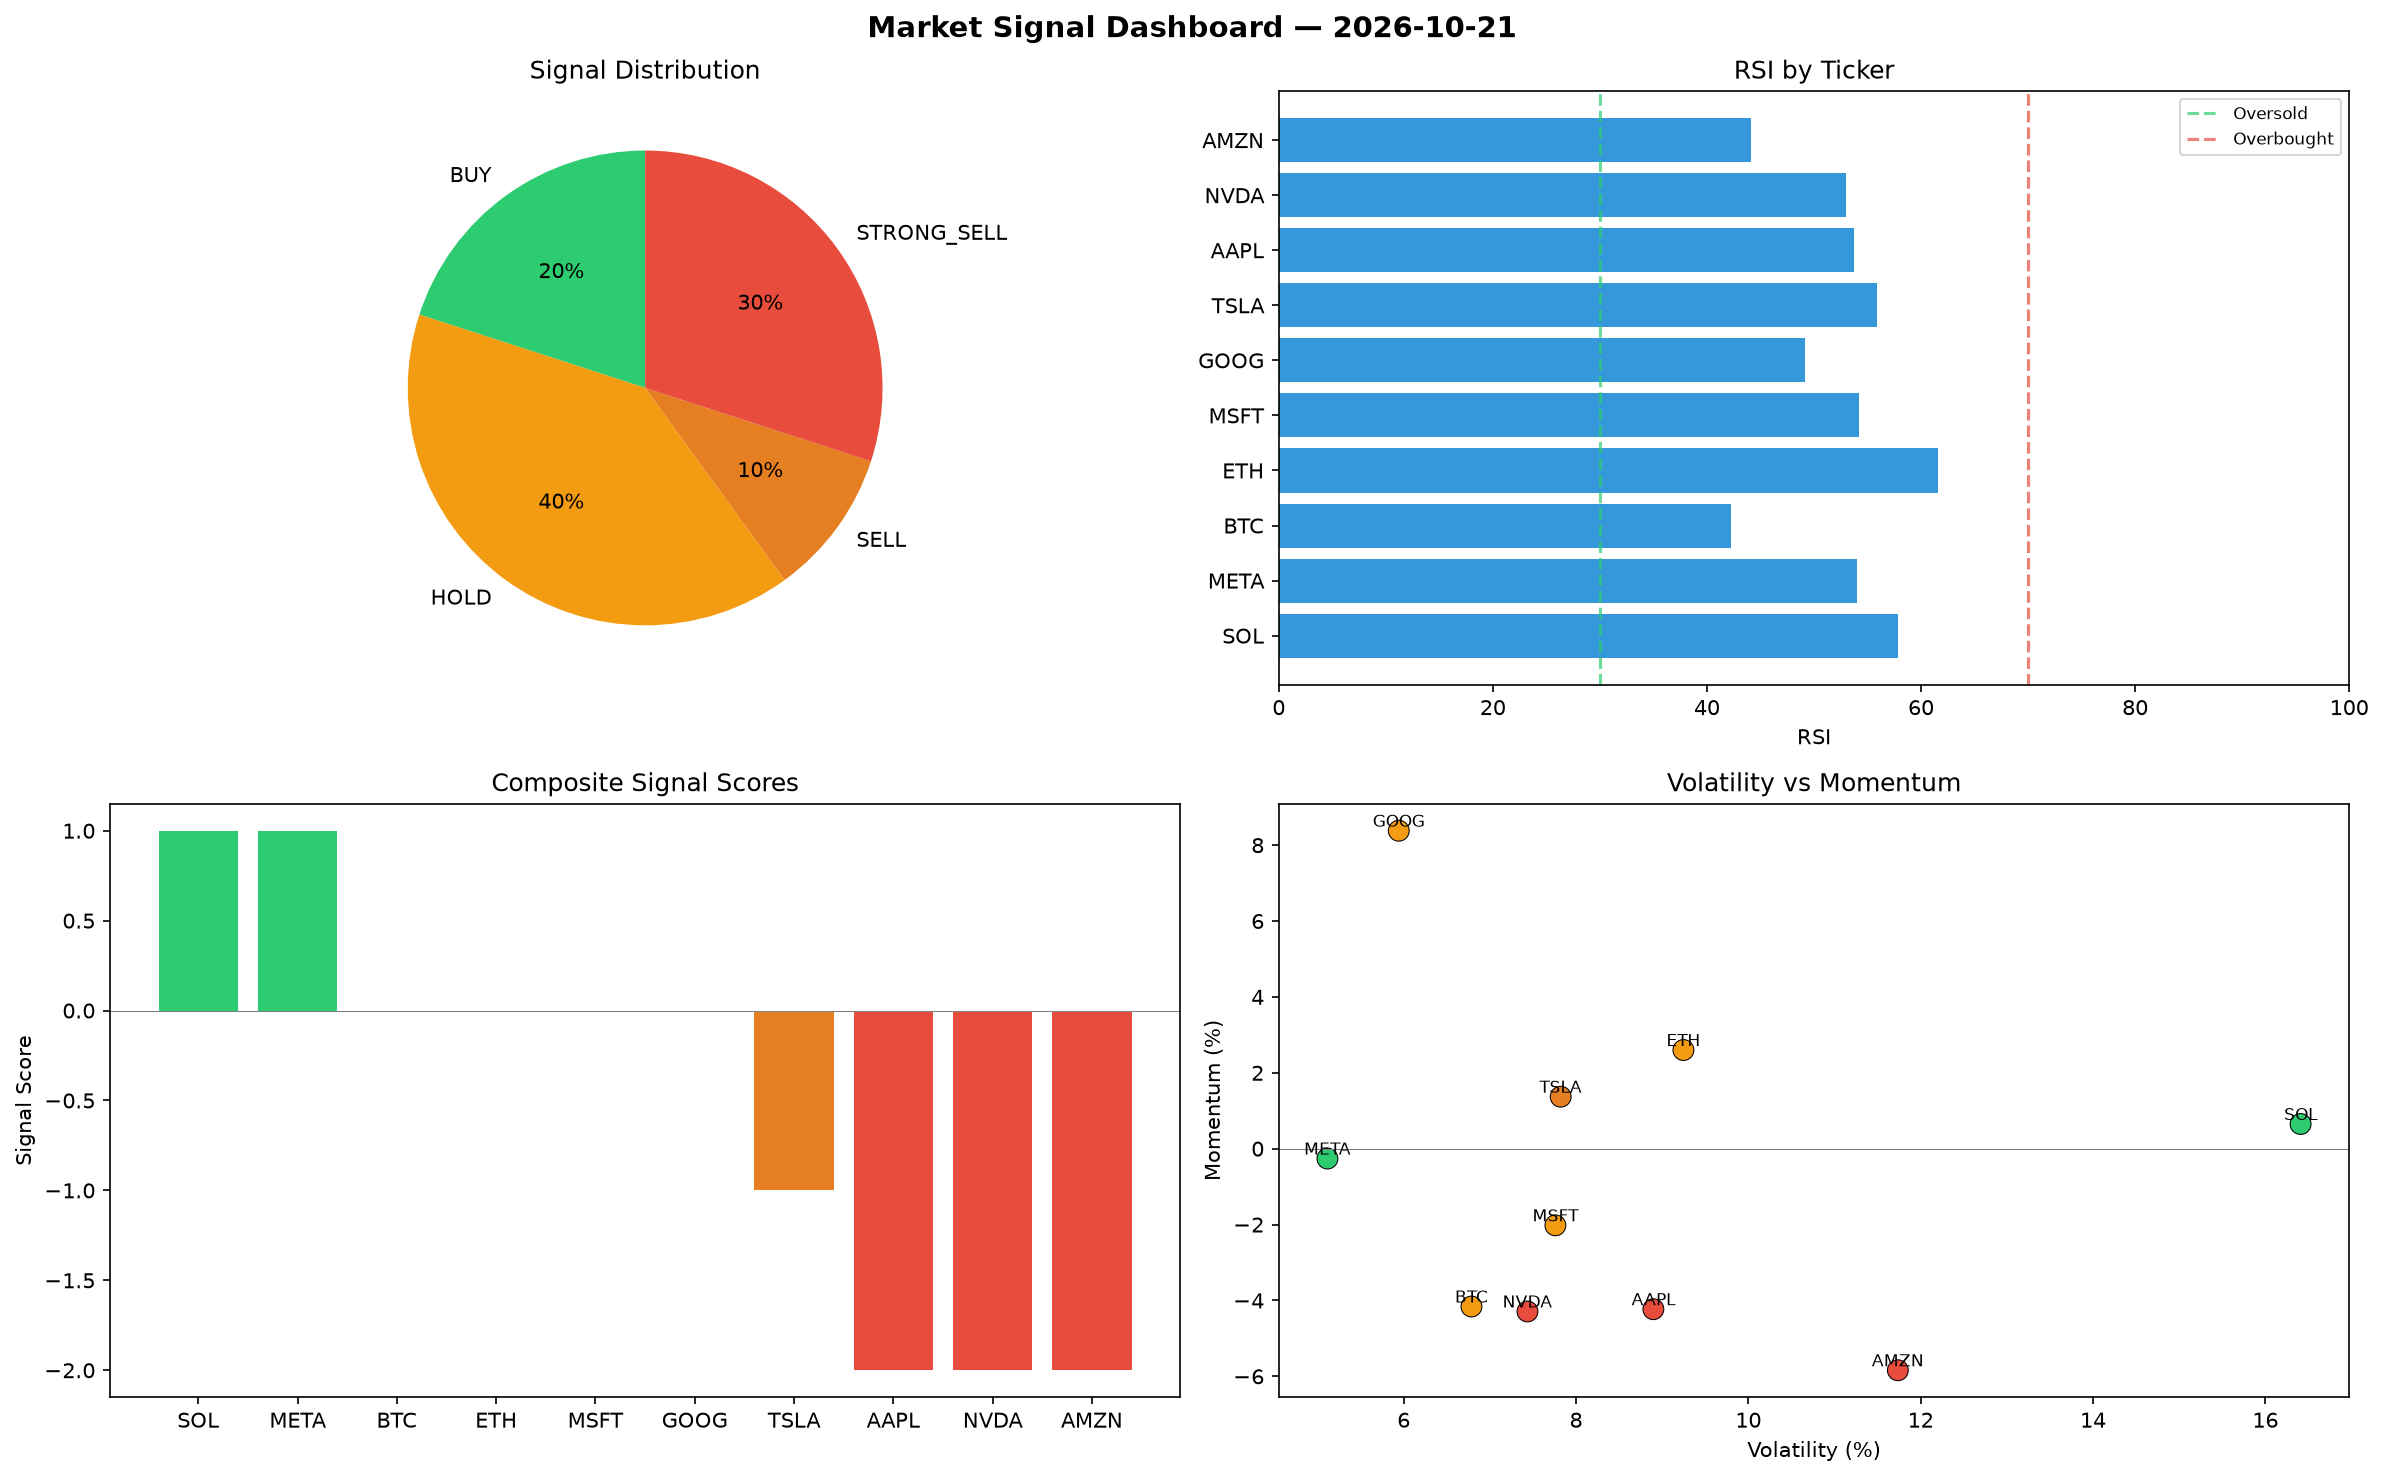
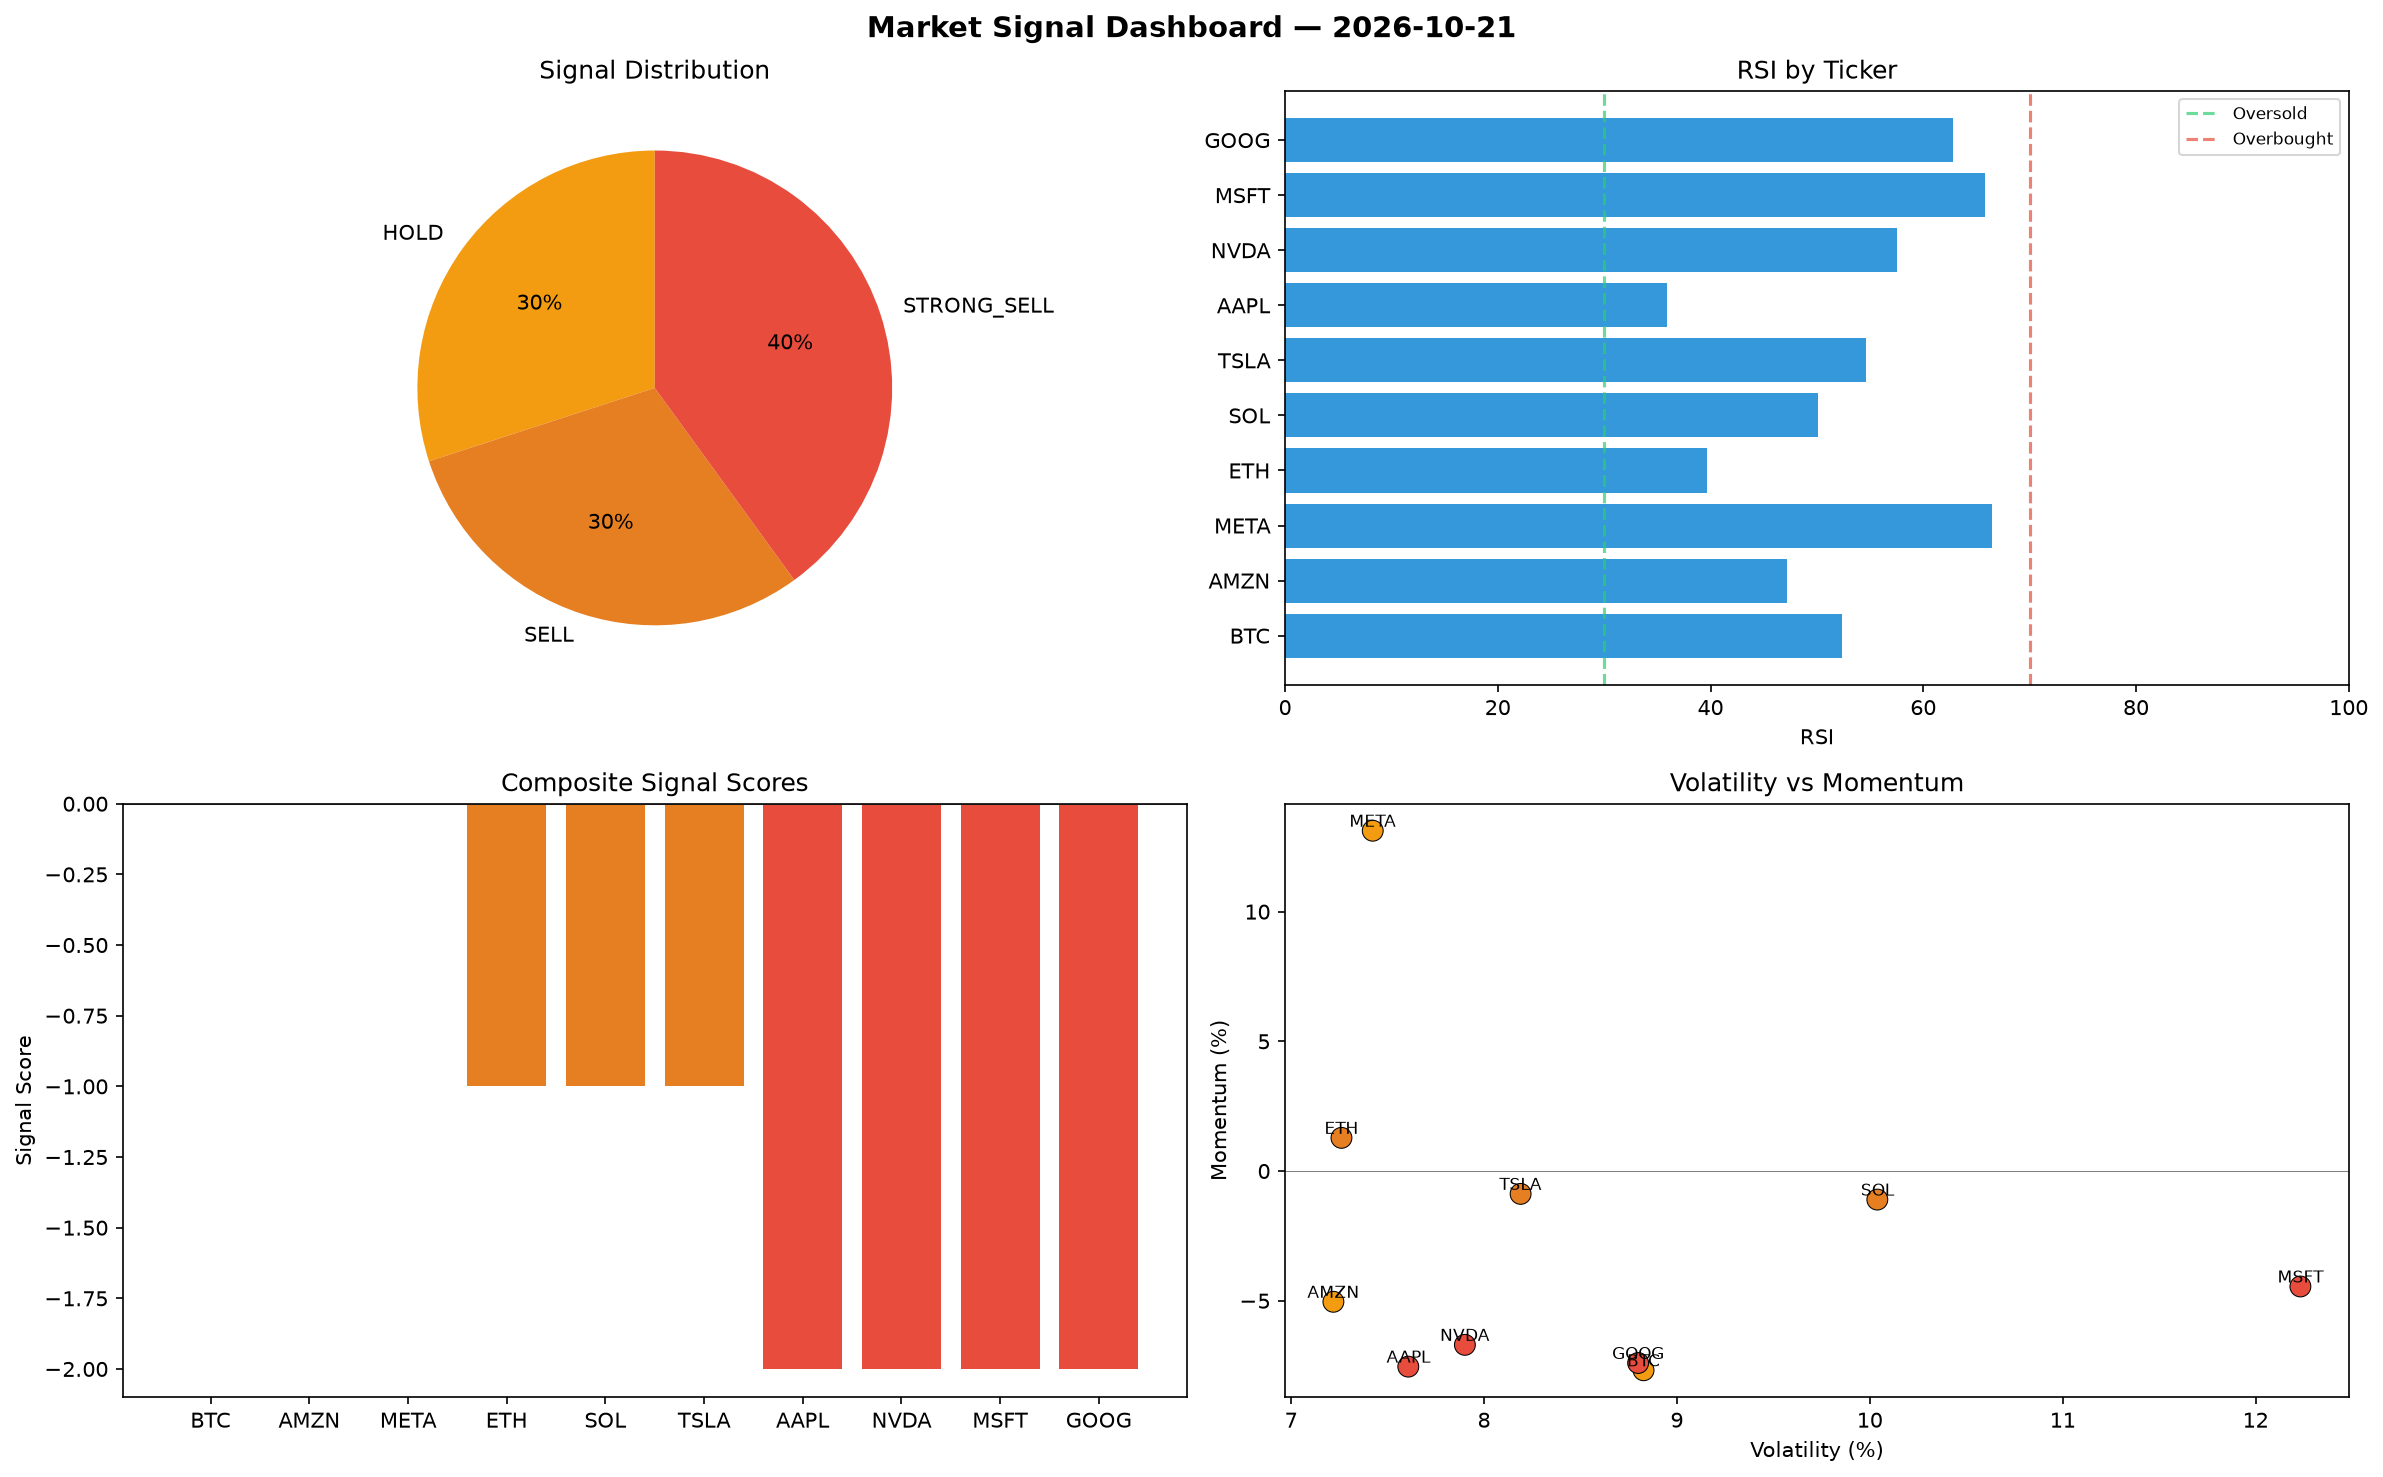
automated-bots: market signals 2026-10-21T23:28

diff --git a/logs/2026-10-21.md b/logs/2026-10-21.md
@@ -1,6 +1,6 @@
 # Market Signal Report — 2026-10-21
 
-**Run ID:** `44e26386bc` | **Buy:** 2 | **Sell:** 4 | **Hold:** 4
+**Run ID:** `8433b8e13e` | **Buy:** 0 | **Sell:** 7 | **Hold:** 3
 
 ![Dashboard](2026-10-21_dashboard.png)
 
@@ -8,28 +8,28 @@
 
 | Ticker | Price | Signal | Score | RSI | Momentum | Confidence |
 |--------|-------|--------|-------|-----|----------|------------|
-| SOL | $695.65 | **BUY** | 1 | 57.8 | 0.0065 | 0.25 |
-| META | $2050.44 | **BUY** | 1 | 54.03 | -0.0026 | 0.25 |
-| BTC | $1680.99 | **HOLD** | 0 | 42.21 | -0.0416 | 0.0 |
-| ETH | $3261.55 | **HOLD** | 0 | 61.56 | 0.026 | 0.0 |
-| MSFT | $388.21 | **HOLD** | 0 | 54.17 | -0.0202 | 0.0 |
-| GOOG | $5088.15 | **HOLD** | 0 | 49.14 | 0.0838 | 0.0 |
-| TSLA | $2897.37 | **SELL** | -1 | 55.87 | 0.0137 | 0.25 |
-| AAPL | $741.28 | **STRONG_SELL** | -2 | 53.76 | -0.0423 | 0.5 |
-| NVDA | $3547.28 | **STRONG_SELL** | -2 | 52.95 | -0.0429 | 0.5 |
-| AMZN | $1988.43 | **STRONG_SELL** | -2 | 44.13 | -0.0584 | 0.5 |
+| BTC | $662.73 | **HOLD** | 0 | 52.37 | -0.0768 | 0.0 |
+| AMZN | $4133.65 | **HOLD** | 0 | 47.18 | -0.0504 | 0.0 |
+| META | $3589.44 | **HOLD** | 0 | 66.49 | 0.1312 | 0.0 |
+| ETH | $2170.13 | **SELL** | -1 | 39.7 | 0.0128 | 0.25 |
+| SOL | $2871.95 | **SELL** | -1 | 50.07 | -0.011 | 0.25 |
+| TSLA | $4319.53 | **SELL** | -1 | 54.57 | -0.0088 | 0.25 |
+| AAPL | $3580.49 | **STRONG_SELL** | -2 | 35.93 | -0.0754 | 0.5 |
+| NVDA | $859.45 | **STRONG_SELL** | -2 | 57.55 | -0.067 | 0.5 |
+| MSFT | $2048.61 | **STRONG_SELL** | -2 | 65.83 | -0.0445 | 0.5 |
+| GOOG | $2445.21 | **STRONG_SELL** | -2 | 62.84 | -0.074 | 0.5 |
 
 ## Delta vs Yesterday
 
 | Ticker | Today | Yesterday | Price Change | Signal Changed |
 |--------|-------|-----------|-------------|----------------|
-| SOL | BUY | STRONG_SELL | 📉 -71.25% | ⚠ YES |
-| META | BUY | STRONG_BUY | 📉 -21.34% | ⚠ YES |
-| BTC | HOLD | STRONG_SELL | 📈 30.59% | ⚠ YES |
-| ETH | HOLD | HOLD | 📈 53.71% | — |
-| MSFT | HOLD | HOLD | 📉 -81.56% | — |
-| GOOG | HOLD | BUY | 📈 17.88% | ⚠ YES |
-| TSLA | SELL | HOLD | 📉 -21.78% | ⚠ YES |
-| AAPL | STRONG_SELL | BUY | 📉 -64.76% | ⚠ YES |
-| NVDA | STRONG_SELL | STRONG_SELL | 📈 67.85% | — |
-| AMZN | STRONG_SELL | STRONG_SELL | 📈 12.15% | — |
+| BTC | HOLD | STRONG_SELL | 📉 -48.52% | ⚠ YES |
+| AMZN | HOLD | STRONG_SELL | 📈 133.14% | ⚠ YES |
+| META | HOLD | STRONG_BUY | 📈 37.7% | ⚠ YES |
+| ETH | SELL | HOLD | 📈 2.27% | ⚠ YES |
+| SOL | SELL | STRONG_SELL | 📈 18.71% | ⚠ YES |
+| TSLA | SELL | HOLD | 📈 16.61% | ⚠ YES |
+| AAPL | STRONG_SELL | BUY | 📈 70.22% | ⚠ YES |
+| NVDA | STRONG_SELL | STRONG_SELL | 📉 -59.33% | — |
+| MSFT | STRONG_SELL | HOLD | 📉 -2.67% | ⚠ YES |
+| GOOG | STRONG_SELL | BUY | 📉 -43.35% | ⚠ YES |
